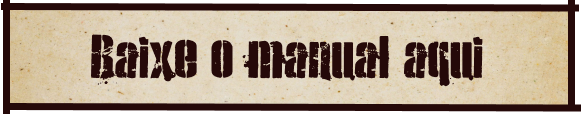
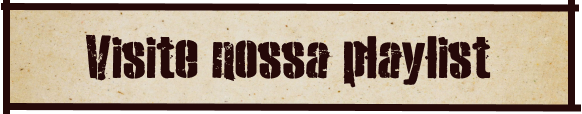
Estilizando seção Saiba Mais da lading page

Changed region(s): [[0.1237, 0.2895, 0.866, 0.7632]]

diff --git a/index.html b/index.html
@@ -131,8 +131,8 @@
 
       <section id="saibaMais">
         <h2>Saiba mais</h2>
-        <div>
-          <div id="divPlaylist">
+        <div id="textoSaibaMais">
+          <div class="saibaMais"  id="playlist">
             <i class="uil uil-play" class="iconeSaibaMais"></i>
             <p>
               Para proporcionar uma experiência ainda mais imersiva, preparamos
@@ -141,11 +141,9 @@
               nosso jogo, intensificando a diversão e criando o ambiente
               perfeito.
             </p>
-            <button>
               <img src="assets/bottons/botao_playlist.png" alt="" />
-            </button>
           </div>
-          <div id="divManual">
+          <div class="saibaMais" id="manual">
             <i class="uil uil-map" class="iconeSaibaMais"></i>
             <p>
               As regras são bem mais simples do que as dos RPGs tradicionais,
@@ -153,9 +151,7 @@
               complicação. Mergulhe nessa aventura e descubra um universo
               apaixonante, cheio de possibilidades!
             </p>
-            <button>
               <img src="assets/bottons/botao_manual.png" alt="" />
-            </button>
           </div>
         </div>
       </section>

diff --git a/style.css b/style.css
@@ -203,10 +203,9 @@ main #hero .light:hover {
 /* secao historia */
 
 main #historia {
-  height: 100vh;
   display: flex;
   align-items: center;
-  padding-top: 8rem;
+  padding-top: 4.5rem;
   margin-top: 8rem;
 }
 
@@ -239,18 +238,49 @@ main #historia .textoHistoria #caixaTexto {
 /* Personagens */
 
 main #personagens {
-  padding-top: 10rem;
+  padding-top: 9.5rem;
 }
 
 main #personagens .cards {
   display: grid;
   grid-template-columns: 1fr 1fr 1fr;
   column-gap: 12rem;
-  row-gap: 3rem;
+  row-gap: 1.8rem;
   margin-top: 2rem;
 }
 
 main #personagens .cards img{
   width: 100%;
   cursor: pointer;
+}
+
+/* saiba mais */
+
+main #saibaMais h2 {
+  padding: 9.5rem 0 0.5rem 0;
+  margin-top: 5rem;
+}
+
+main #saibaMais #textoSaibaMais {
+  display: flex;
+  justify-content: space-between;
+  margin: 0 3rem;
+}
+
+main #saibaMais #textoSaibaMais i{
+  font-size: 9rem;
+  color: #decdb0;
+  margin-bottom: -2rem;
+}
+
+main #saibaMais #textoSaibaMais img{
+  width: 31rem;
+}
+
+main #saibaMais #textoSaibaMais .saibaMais {
+  display: flex;
+  flex-direction: column;
+  align-items: center;
+  gap: 2.5rem;
+  width: 30rem; 
 }
